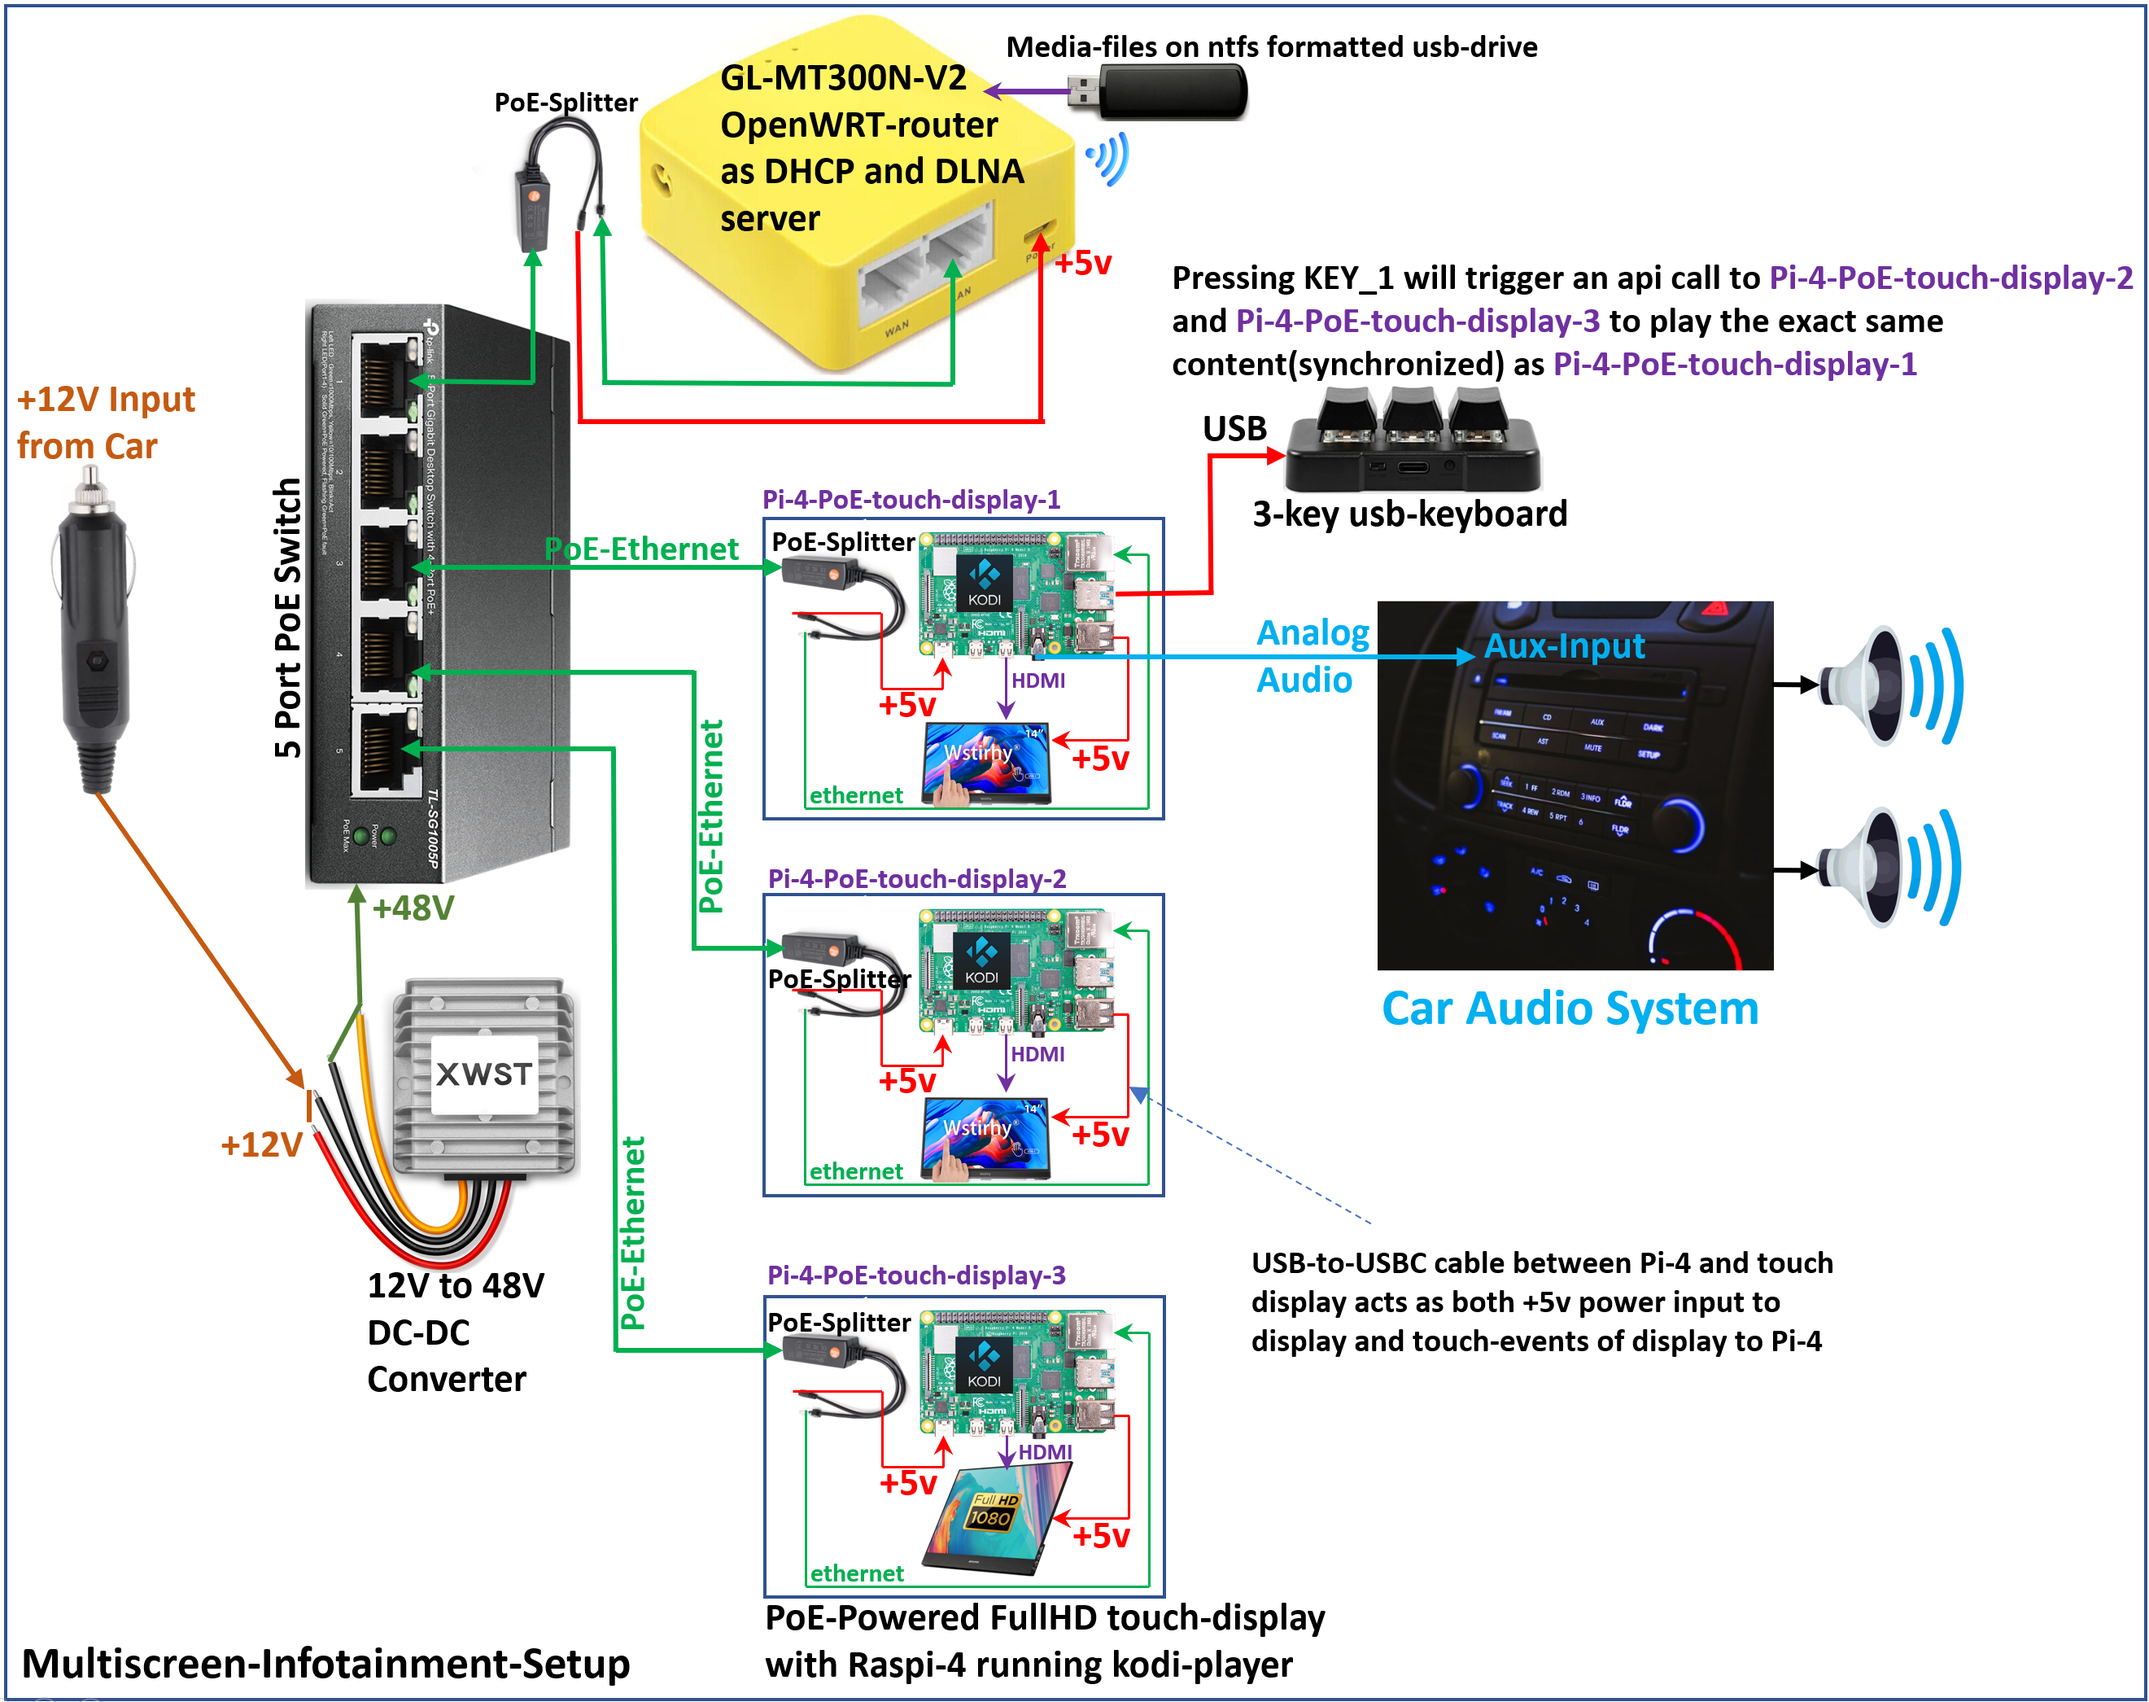
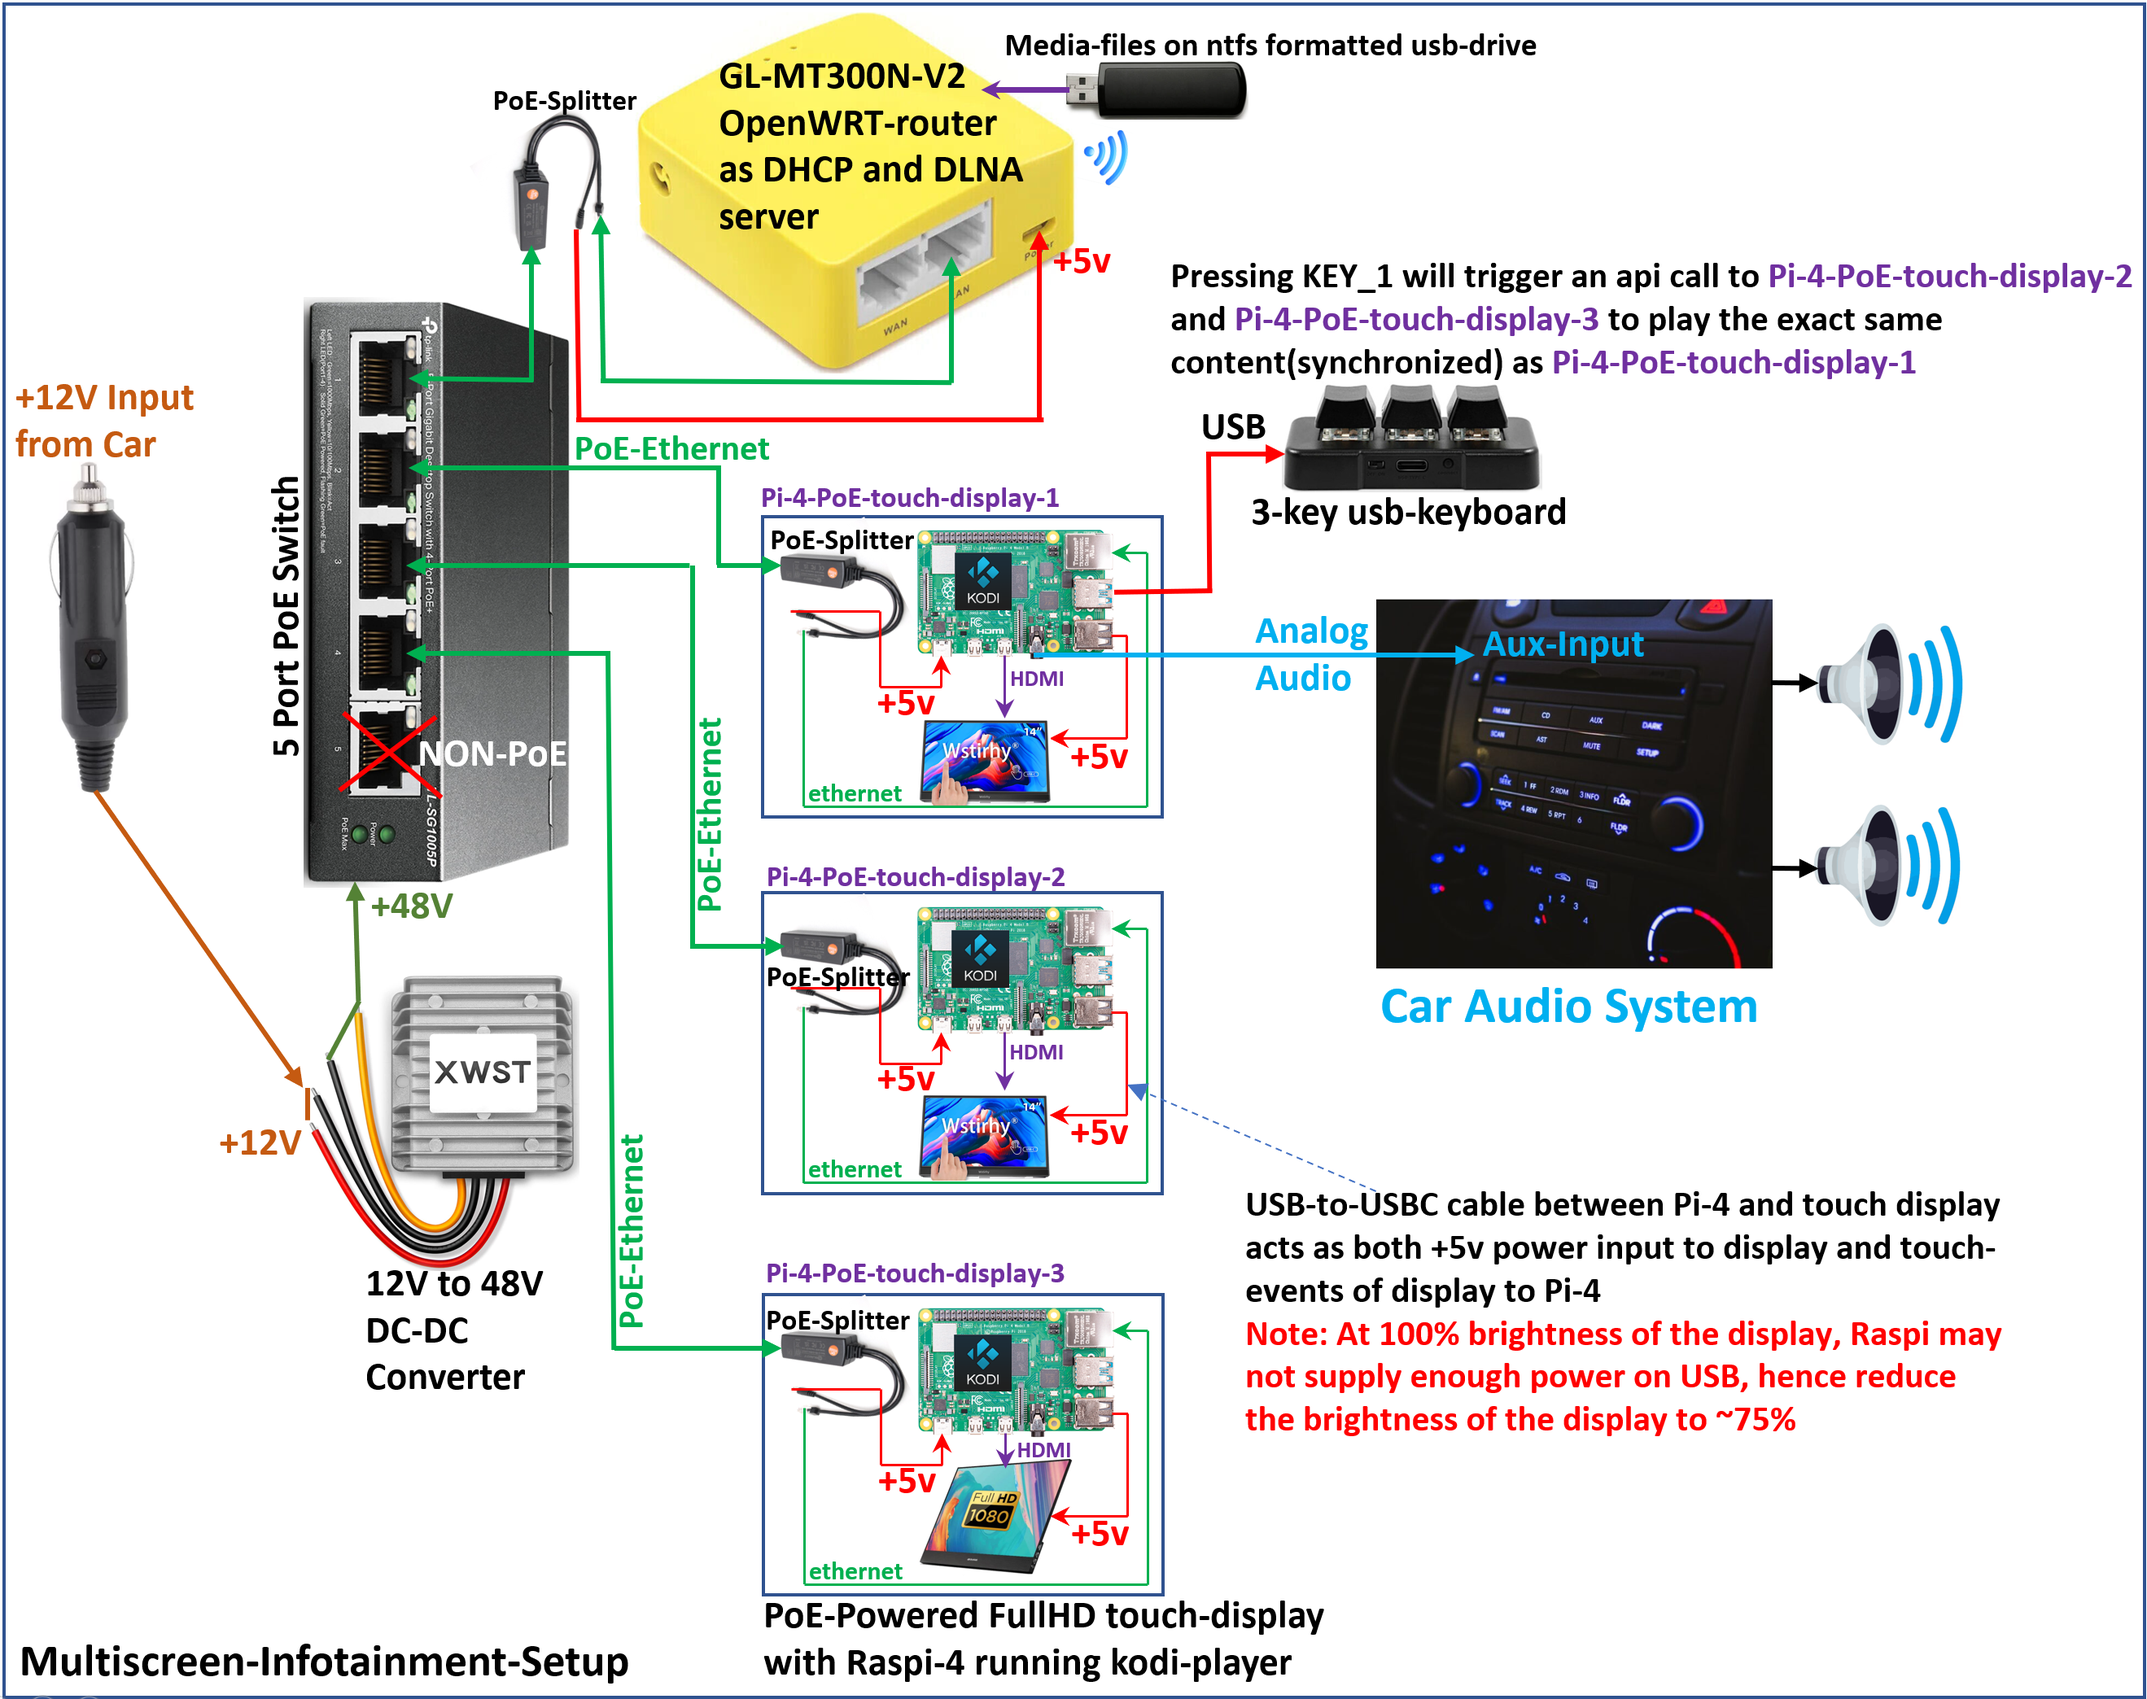
added remaing instllation steps

diff --git a/README.md b/README.md
@@ -41,3 +41,26 @@ When on a lengthy drive with young children, Its nice to have a setup to keep al
 | 18    | MicroSD Card                 | 3        | 10            | 30       | 16GB or higher                  | [Link](https://amzn.eu/d/e3RXCP2) |
 
 As of writing this, total cost of building three screen infotainment setup is around **850€**
+
+# Preparation of MicroSD Cards for Raspberry-Pi
+As shown in this picture below, using Raspberry-Pi-Imager, prepare 3 micro-sd-cards by setting the correct hostname/user/pw(for pi user, feel free to choose your own password). Make sure to set hostname as **media-mux-0001/media-mux-0002/media-mux-0003** and keep the user as **pi**.
+
+![SDCard Preparation.](/images/raspi-sdcard-preparation.png "SDCard Preparation.")
+
+# Preparation of GL-MT300N-V2 Pocket-Router
+Overwrite OEM firmware of pocket router with [this](https://github.com/hackboxguy/lfs-downloads/raw/main/gl-mt300nv2-dlnasrv/gl-mt300nv2-dlnasrv.bin) image. Exact details of preparing pocket router as DLNA/DHCP server are available here in my [blog](https://albert-david.blogspot.com/2024/03/transforming-your-gl-mt300n-v2-pocket.html)(Make sure your media files are copied on a ntfs formatted flash drive).
+
+# Final setup of Raspberry Pi's
+1. As shown in this picture below, connect your PC(or laptop) to the 5th ethernet port(Non-PoE) of the PoE switch and turn ON the +12Vdc to this setup. wait for about 1-2 minutes so that pocket-router and raspberry-pi's are done with booting(your laptop or pc will get the ip 192.168.20.x from the dhcp server of the pocket-router).
+
+![Installation Setup.](/images/installation-setup.png "Installation Setup.")
+
+2. From your PC(or laptop) ssh into the first Raspberry pi using putty.exe or ssh ```ssh pi@media-mux-0001```
+3. As shown in this picture below, run the commands: ```git clone https://github.com/hackboxguy/media-mux.git``` and ```cd media-mux``` and ```sudo ./setup.sh -n 1``` and finally reboot using ```sudo reboot;exit```
+
+![SW Installation.](/images/software-installation.png "SW Installation.")
+
+4. Repeat the steps 2 and 3 by using next hostname(**media-mux-0002/media-mux-0003**) and using ```sudo ./setup.sh -n 2``` and ```sudo ./setup.sh -n 3```
+5. After reboot, all 3 Raspi-Touch-Screens will automatically boot to kodi media player where you can browse your media files from Pocket-Router's DLNA server and play the content.
+6. The Raspi that is attached with **3Keyboard-usb-accessory** will become a master device and by pressing the KEY_1 will play the same media of the master(by seeking the exact time of media) on to remaining two displays in a synchronized fashion.
+7. You are free to operate all 3 Raspi-Touch-Screens and play separate medias so that every passanger can enjoy their own content by attaching an audio-headset to their respective screens.
